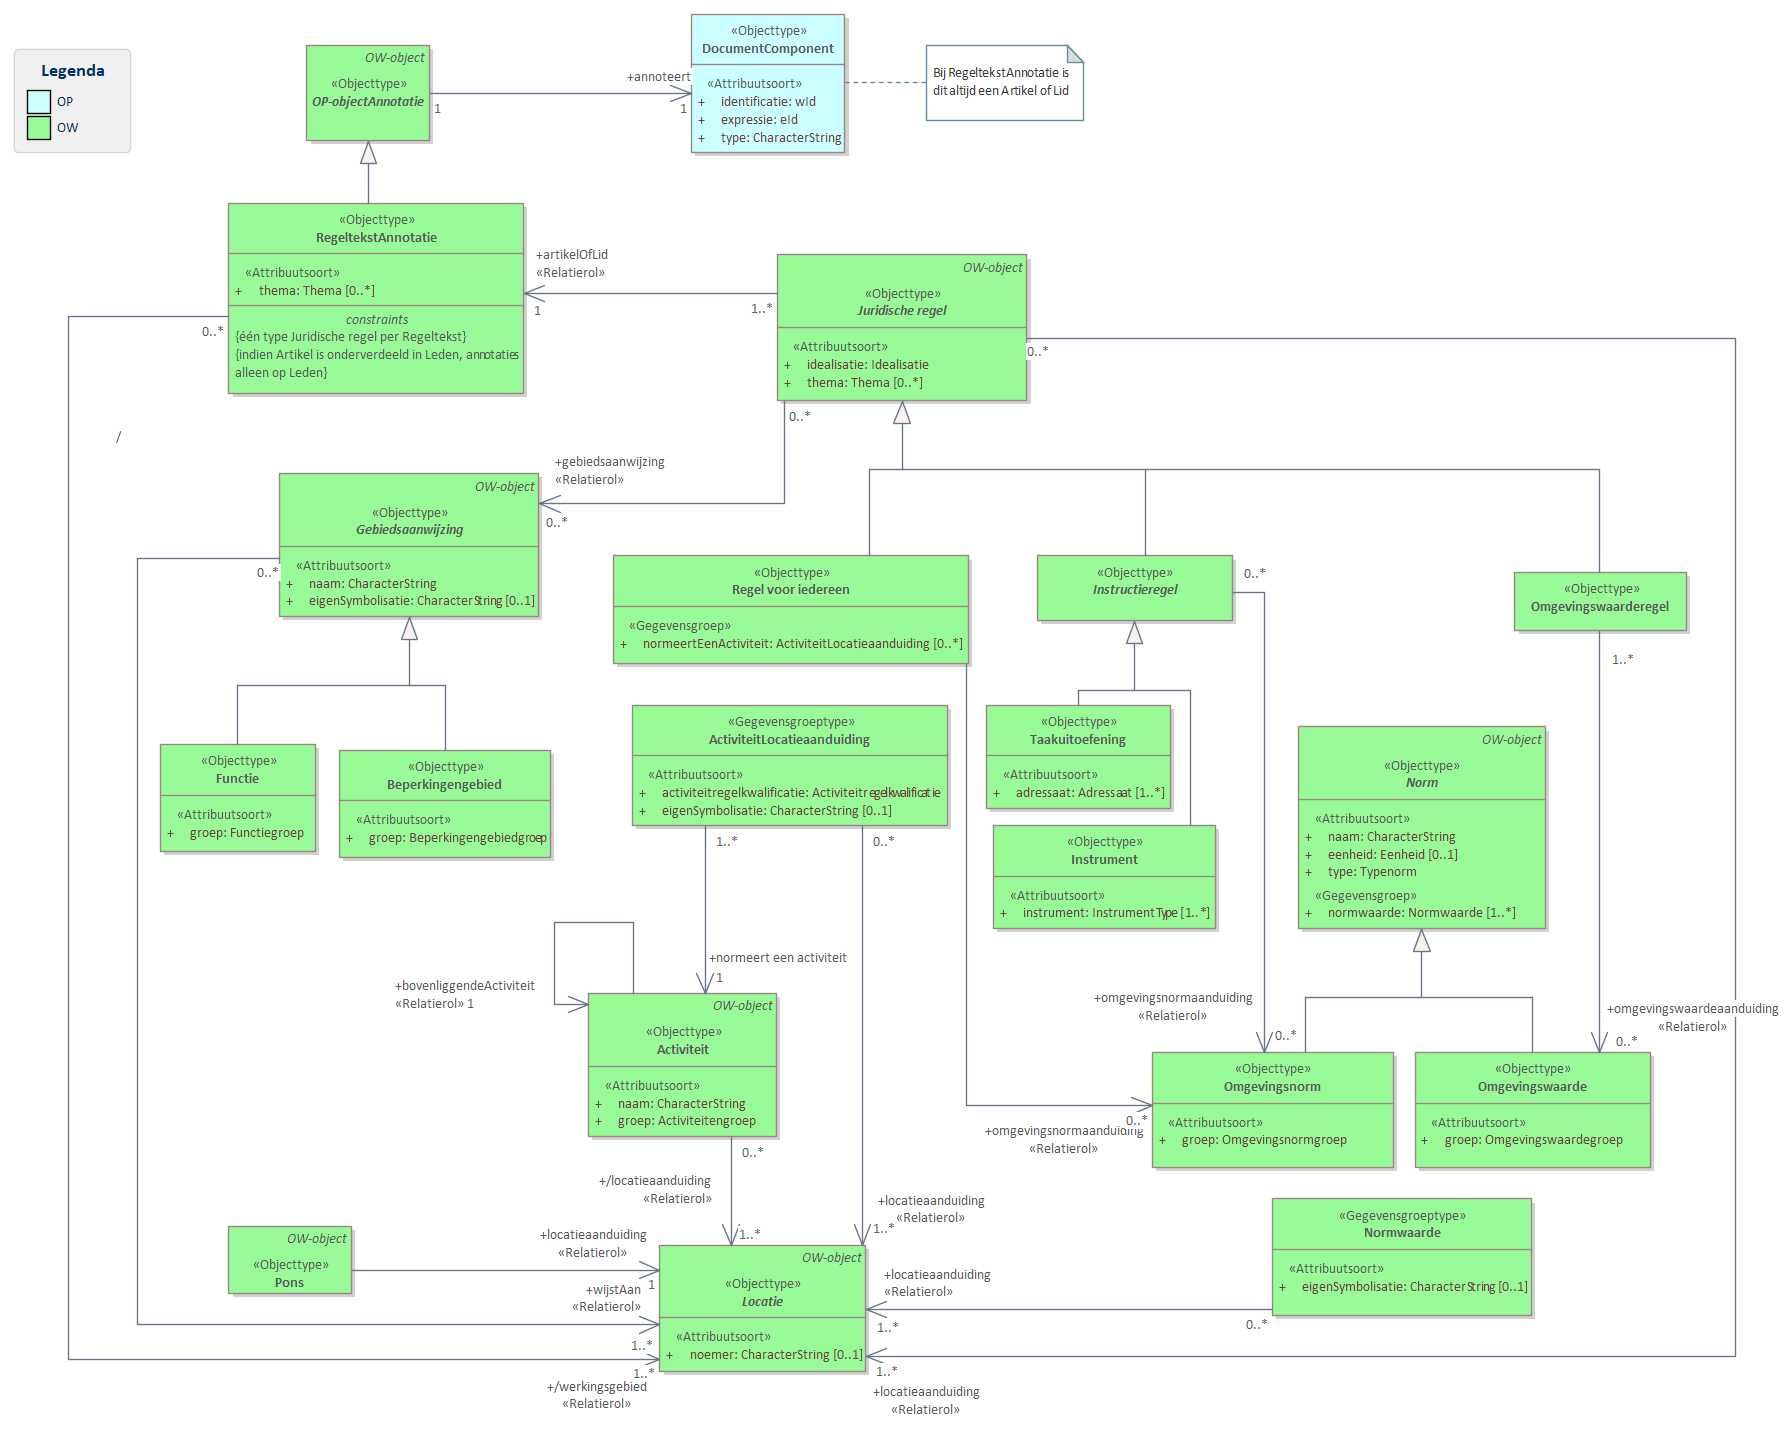
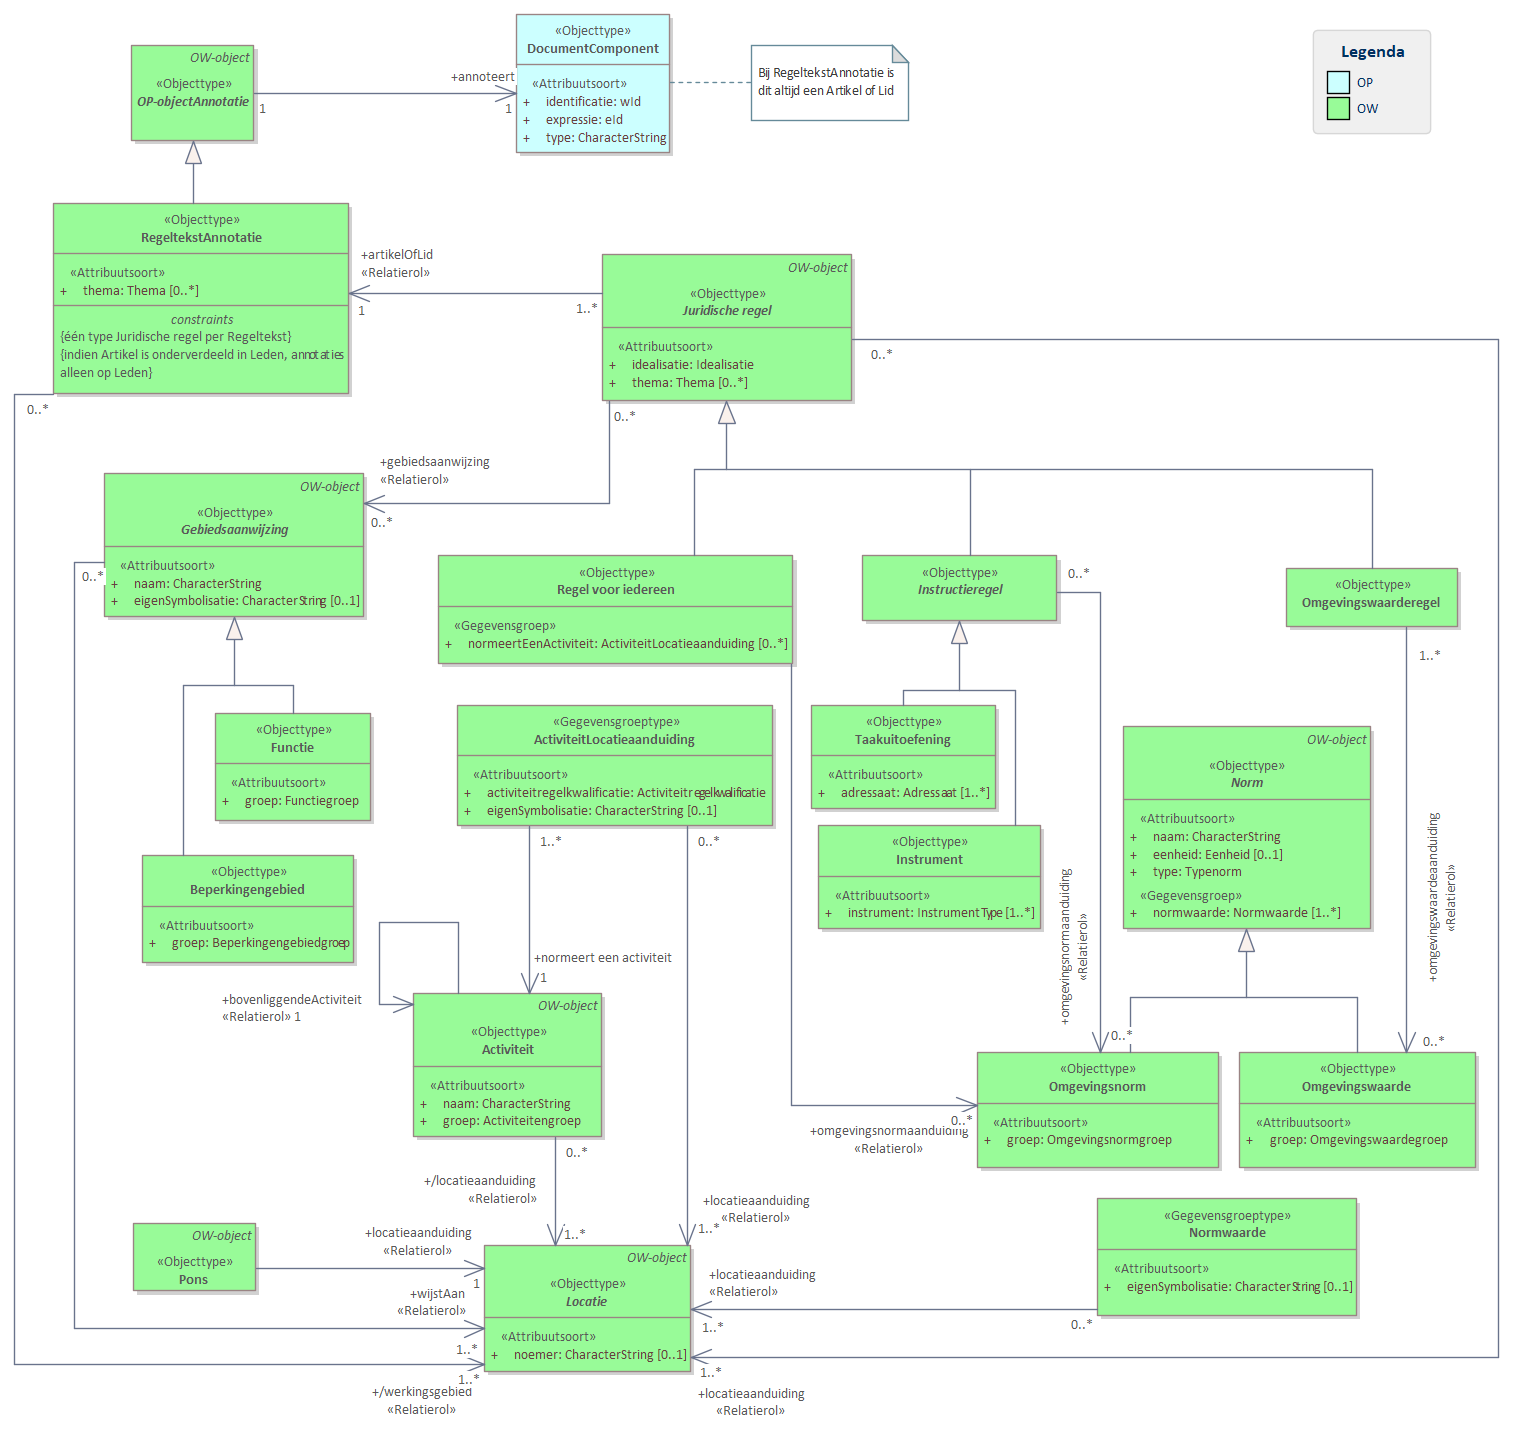
MIMCM-dso-cim-ow-1.0-0-20230213-20250108-154538

diff --git a/data/dso-cim-ow-cat.respec.html b/data/dso-cim-ow-cat.respec.html
@@ -1,10 +1,10 @@
-<!DOCTYPE HTML><section id="cat" class="normative"><h2>Gegevensdefinitie</h2><!--MIMCM-dso-cim-ow-1.0-0-20230213-20250108-153123 imvertor Nightly-build.19--><section id="global_packages"><h3>Model   dso-cim-ow</h3><section id="EAID_E3A46D6F_3ED0_4808_82AD_D7173DDFDAC4"><h4>   OW-OP - overzicht</h4><div class="imageinfo overview"><figure class="uml-diagram"><img id="EAID_E3A46D6F_3ED0_4808_82AD_D7173DDFDAC4" src="data/Images/EAID_E3A46D6F_3ED0_4808_82AD_D7173DDFDAC4.png" usemap="#imagemap-EAID_E3A46D6F_3ED0_4808_82AD_D7173DDFDAC4" alt="Diagram: OW-objecten maken een Regeling machine leesbaar en horen altijd bij precies één Regeling. OP-objectAnnotatie objecten zij OW-objecten die een 1 op 1 koppeling met een wId element in een Regeling hebben. Alle andere OW-objecten die bij de Regeling horen zijn via relaties aan de OP-objectannotatie en dus aan een DocumentComponent gekoppeld. Er zijn twee soorten annotaties: In Regelingen met artikelstructuur worden RegeltekstAnnotaties gebruikt die altijd naar een Artikel of Lid en verwijzen. In regelingen met een vrije-tekststrutuur verwijst een OP-objectannotatie altijd naar een Divisie of Divisietekst"><figcaption> ‒ Diagram: OW-OP</figcaption></figure><map name="imagemap-EAID_E3A46D6F_3ED0_4808_82AD_D7173DDFDAC4"><area shape="rect" alt="OW-object" coords="193,23,401,145" href="#global_class_OWaanlevering_OWobject"><area shape="rect" alt="VrijetekstAnnotatie" coords="295,365,510,487" href="#global_class_Vrijetekststructuur_VrijetekstAnnotatie"><area shape="rect" alt="RegeltekstAnnotatie" coords="100,365,267,476" href="#global_class_Artikelstructuur_RegeltekstAnnotatie"><area shape="rect" alt="OP-objectAnnotatie" coords="193,209,369,263" href="#global_class_OWaanlevering_OPobjectAnnotatie"></map><p>
+<!DOCTYPE HTML><section id="cat" class="normative"><h2>Gegevensdefinitie</h2><!--MIMCM-dso-cim-ow-1.0-0-20230213-20250108-154538 imvertor Nightly-build.19--><section id="global_packages"><h3>Model   dso-cim-ow</h3><section id="EAID_E3A46D6F_3ED0_4808_82AD_D7173DDFDAC4"><h4>   OW-OP - overzicht</h4><div class="imageinfo overview"><figure class="uml-diagram"><img id="EAID_E3A46D6F_3ED0_4808_82AD_D7173DDFDAC4" src="data/Images/EAID_E3A46D6F_3ED0_4808_82AD_D7173DDFDAC4.png" usemap="#imagemap-EAID_E3A46D6F_3ED0_4808_82AD_D7173DDFDAC4" alt="Diagram: OW-objecten maken een Regeling machine leesbaar en horen altijd bij precies één Regeling. OP-objectAnnotatie objecten zij OW-objecten die een 1 op 1 koppeling met een wId element in een Regeling hebben. Alle andere OW-objecten die bij de Regeling horen zijn via relaties aan de OP-objectannotatie en dus aan een DocumentComponent gekoppeld. Er zijn twee soorten annotaties: In Regelingen met artikelstructuur worden RegeltekstAnnotaties gebruikt die altijd naar een Artikel of Lid en verwijzen. In regelingen met een vrije-tekststrutuur verwijst een OP-objectannotatie altijd naar een Divisie of Divisietekst"><figcaption> ‒ Diagram: OW-OP</figcaption></figure><map name="imagemap-EAID_E3A46D6F_3ED0_4808_82AD_D7173DDFDAC4"><area shape="rect" alt="OW-object" coords="193,23,401,145" href="#global_class_OWaanlevering_OWobject"><area shape="rect" alt="VrijetekstAnnotatie" coords="295,365,510,487" href="#global_class_Vrijetekststructuur_VrijetekstAnnotatie"><area shape="rect" alt="RegeltekstAnnotatie" coords="100,365,267,476" href="#global_class_Artikelstructuur_RegeltekstAnnotatie"><area shape="rect" alt="OP-objectAnnotatie" coords="193,209,369,263" href="#global_class_OWaanlevering_OPobjectAnnotatie"></map><p>
                         <p>OW-objecten maken een Regeling machine leesbaar en horen altijd bij precies één Regeling.  OP-objectAnnotatie objecten zij OW-objecten die een 1 op 1 koppeling met een wId element in een Regeling hebben. Alle andere OW-objecten die bij de Regeling horen zijn via relaties aan de OP-objectannotatie en dus aan een DocumentComponent gekoppeld.</p>
                         <p>Er zijn twee soorten annotaties: </p>
                         <p>In Regelingen met artikelstructuur worden RegeltekstAnnotaties gebruikt die  altijd naar een Artikel of Lid en verwijzen. In regelingen met een vrije-tekststrutuur verwijst een OP-objectannotatie altijd naar een Divisie of Divisietekst</p>
                      </p></div></section><section id="EAID_199FD13D_8495_487c_8D35_8C11BB634BAE"><h4>   OW-Objecten - overzicht</h4><div class="imageinfo overview"><figure class="uml-diagram"><img id="EAID_199FD13D_8495_487c_8D35_8C11BB634BAE" src="data/Images/EAID_199FD13D_8495_487c_8D35_8C11BB634BAE.png" usemap="#imagemap-EAID_199FD13D_8495_487c_8D35_8C11BB634BAE" alt="Diagram: Een Regeling wordt machine leesbaar gemaakt door daar OW-objecten aan toe te voegen. Dit diagram bevat een overzicht van allen OW-obecten die kunnen worden toegevoegd."><figcaption> ‒ Diagram: OW-Objecten</figcaption></figure><map name="imagemap-EAID_199FD13D_8495_487c_8D35_8C11BB634BAE"><area shape="rect" alt="Taakuitoefening" coords="1249,811,1434,933" href="#global_class_Artikelstructuur_Taakuitoefening"><area shape="rect" alt="Instrument" coords="1006,804,1228,908" href="#global_class_Artikelstructuur_Instrument"><area shape="rect" alt="OW-status" coords="321,103,427,201" href="#detail_class_OWaanlevering_OWstatus"><area shape="rect" alt="OP-objectAnnotatie" coords="1075,259,1219,347" href="#global_class_OWaanlevering_OPobjectAnnotatie"><area shape="rect" alt="Gebiedsaanwijzing" coords="639,261,899,401" href="#global_class_OWaanlevering_Gebiedsaanwijzing"><area shape="rect" alt="VrijetekstAnnotatie" coords="1185,419,1376,558" href="#global_class_Vrijetekststructuur_VrijetekstAnnotatie"><area shape="rect" alt="Hoofdlijn" coords="603,427,772,549" href="#global_class_Vrijetekststructuur_Hoofdlijn"><area shape="rect" alt="Norm" coords="116,451,334,629" href="#global_class_Artikelstructuur_Norm"><area shape="rect" alt="Pons" coords="932,261,1041,317" href="#global_class_Artikelstructuur_Pons"><area shape="rect" alt="Gebiedengroep" coords="722,954,845,1018" href="#global_class_Locatie_Gebiedengroep"><area shape="rect" alt="Gebied" coords="698,1036,899,1138" href="#global_class_Locatie_Gebied"><area shape="rect" alt="Puntengroep" coords="334,954,457,1011" href="#global_class_Locatie_Puntengroep"><area shape="rect" alt="Punt" coords="250,1029,446,1131" href="#global_class_Locatie_Punt"><area shape="rect" alt="Lijnengroep" coords="529,948,653,1011" href="#global_class_Locatie_Lijnengroep"><area shape="rect" alt="Lijn" coords="475,1029,677,1131" href="#global_class_Locatie_Lijn"><area shape="rect" alt="Juridische regel" coords="792,419,988,558" href="#global_class_Artikelstructuur_Juridischeregel"><area shape="rect" alt="RegeltekstAnnotatie" coords="1006,436,1161,558" href="#global_class_Artikelstructuur_RegeltekstAnnotatie"><area shape="rect" alt="Regel voor iedereen" coords="772,655,1114,755" href="#global_class_Artikelstructuur_Regelvooriedereen"><area shape="rect" alt="Omgevingswaarderegel" coords="614,632,759,688" href="#global_class_Artikelstructuur_Omgevingswaarderegel"><area shape="rect" alt="Instructieregel" coords="1135,639,1235,710" href="#global_class_Artikelstructuur_Instructieregel"><area shape="rect" alt="Activiteit" coords="14,256,186,382" href="#global_class_Artikelstructuur_Activiteit"><area shape="rect" alt="Omgevingswaarde" coords="222,714,432,836" href="#global_class_Artikelstructuur_Omgevingswaarde"><area shape="rect" alt="Omgevingsnorm" coords="14,714,212,836" href="#global_class_Artikelstructuur_Omgevingsnorm"><area shape="rect" alt="Locatie" coords="483,755,684,859" href="#global_class_Locatie_Locatie"><area shape="rect" alt="Kaartlaag" coords="228,256,549,419" href="#global_class_Kaart_Kaartlaag"><area shape="rect" alt="Kaart" coords="363,460,569,622" href="#global_class_Kaart_Kaart"><area shape="rect" alt="OW-object" coords="475,41,706,163" href="#global_class_OWaanlevering_OWobject"></map><p>
                         <p>Een Regeling wordt machine leesbaar gemaakt door daar OW-objecten aan toe te voegen. Dit diagram bevat een overzicht van allen OW-obecten die kunnen worden toegevoegd.</p>
-                     </p></div></section></section><section id="global_package_Artikelstructuur"><h3>Domein   Artikelstructuur</h3><section id="EAID_39BFBADA_1173_4408_A26C_16716D45ACFC"><h4>   OW - RegeltekstAnnotaties - overzicht</h4><div class="imageinfo overview"><figure class="uml-diagram"><img id="EAID_39BFBADA_1173_4408_A26C_16716D45ACFC" src="data/Images/EAID_39BFBADA_1173_4408_A26C_16716D45ACFC.png" usemap="#imagemap-EAID_39BFBADA_1173_4408_A26C_16716D45ACFC" alt="Diagram: In een Regeling met Artikelstructuur bevat iedere"><figcaption> ‒ Diagram: OW - RegeltekstAnnotaties</figcaption></figure><map name="imagemap-EAID_39BFBADA_1173_4408_A26C_16716D45ACFC"><area shape="rect" alt="Pons" coords="228,1226,352,1294" href="#global_class_Artikelstructuur_Pons"><area shape="rect" alt="Instrument" coords="993,825,1216,929" href="#global_class_Artikelstructuur_Instrument"><area shape="rect" alt="Taakuitoefening" coords="986,705,1171,809" href="#global_class_Artikelstructuur_Taakuitoefening"><area shape="rect" alt="ActiviteitLocatieaanduiding" coords="632,705,948,826" href="#global_class_Artikelstructuur_ActiviteitLocatieaanduiding"><area shape="rect" alt="OP-objectAnnotatie" coords="306,45,430,141" href="#global_class_OWaanlevering_OPobjectAnnotatie"><area shape="rect" alt="Omgevingswaarderegel" coords="1514,572,1687,631" href="#global_class_Artikelstructuur_Omgevingswaarderegel"><area shape="rect" alt="Regel voor iedereen" coords="613,555,969,664" href="#global_class_Artikelstructuur_Regelvooriedereen"><area shape="rect" alt="Instructieregel" coords="1037,555,1233,621" href="#global_class_Artikelstructuur_Instructieregel"><area shape="rect" alt="Functie" coords="160,744,316,852" href="#global_class_GebiedsAanwijzing_Functie"><area shape="rect" alt="Beperkingengebied" coords="339,750,551,858" href="#global_class_GebiedsAanwijzing_Beperkingengebied"><area shape="rect" alt="Gebiedsaanwijzing" coords="279,473,539,617" href="#global_class_OWaanlevering_Gebiedsaanwijzing"><area shape="rect" alt="Normwaarde" coords="1272,1198,1532,1316" href="#global_class_Artikelstructuur_Normwaarde"><area shape="rect" alt="RegeltekstAnnotatie" coords="228,203,524,394" href="#global_class_Artikelstructuur_RegeltekstAnnotatie"><area shape="rect" alt="Norm" coords="1298,726,1546,929" href="#global_class_Artikelstructuur_Norm"><area shape="rect" alt="Locatie" coords="659,1245,866,1372" href="#global_class_Locatie_Locatie"><area shape="rect" alt="Juridische regel" coords="777,254,1027,401" href="#global_class_Artikelstructuur_Juridischeregel"><area shape="rect" alt="Omgevingswaarde" coords="1415,1052,1651,1168" href="#global_class_Artikelstructuur_Omgevingswaarde"><area shape="rect" alt="Omgevingsnorm" coords="1152,1052,1394,1168" href="#global_class_Artikelstructuur_Omgevingsnorm"><area shape="rect" alt="Activiteit" coords="588,993,777,1137" href="#global_class_Artikelstructuur_Activiteit"></map><p>
+                     </p></div></section></section><section id="global_package_Artikelstructuur"><h3>Domein   Artikelstructuur</h3><section id="EAID_39BFBADA_1173_4408_A26C_16716D45ACFC"><h4>   OW - RegeltekstAnnotaties - overzicht</h4><div class="imageinfo overview"><figure class="uml-diagram"><img id="EAID_39BFBADA_1173_4408_A26C_16716D45ACFC" src="data/Images/EAID_39BFBADA_1173_4408_A26C_16716D45ACFC.png" usemap="#imagemap-EAID_39BFBADA_1173_4408_A26C_16716D45ACFC" alt="Diagram: In een Regeling met Artikelstructuur bevat iedere"><figcaption> ‒ Diagram: OW - RegeltekstAnnotaties</figcaption></figure><map name="imagemap-EAID_39BFBADA_1173_4408_A26C_16716D45ACFC"><area shape="rect" alt="Pons" coords="133,1223,256,1291" href="#global_class_Artikelstructuur_Pons"><area shape="rect" alt="Instrument" coords="818,825,1041,929" href="#global_class_Artikelstructuur_Instrument"><area shape="rect" alt="Taakuitoefening" coords="811,705,996,809" href="#global_class_Artikelstructuur_Taakuitoefening"><area shape="rect" alt="ActiviteitLocatieaanduiding" coords="457,705,773,826" href="#global_class_Artikelstructuur_ActiviteitLocatieaanduiding"><area shape="rect" alt="OP-objectAnnotatie" coords="131,45,254,141" href="#global_class_OWaanlevering_OPobjectAnnotatie"><area shape="rect" alt="Omgevingswaarderegel" coords="1286,568,1458,627" href="#global_class_Artikelstructuur_Omgevingswaarderegel"><area shape="rect" alt="Regel voor iedereen" coords="438,555,793,664" href="#global_class_Artikelstructuur_Regelvooriedereen"><area shape="rect" alt="Instructieregel" coords="862,555,1057,621" href="#global_class_Artikelstructuur_Instructieregel"><area shape="rect" alt="Functie" coords="215,713,371,821" href="#global_class_GebiedsAanwijzing_Functie"><area shape="rect" alt="Beperkingengebied" coords="142,855,354,963" href="#global_class_GebiedsAanwijzing_Beperkingengebied"><area shape="rect" alt="Gebiedsaanwijzing" coords="104,473,364,617" href="#global_class_OWaanlevering_Gebiedsaanwijzing"><area shape="rect" alt="Normwaarde" coords="1097,1198,1357,1316" href="#global_class_Artikelstructuur_Normwaarde"><area shape="rect" alt="RegeltekstAnnotatie" coords="53,203,349,394" href="#global_class_Artikelstructuur_RegeltekstAnnotatie"><area shape="rect" alt="Norm" coords="1123,726,1371,929" href="#global_class_Artikelstructuur_Norm"><area shape="rect" alt="Locatie" coords="484,1245,691,1372" href="#global_class_Locatie_Locatie"><area shape="rect" alt="Juridische regel" coords="602,254,852,401" href="#global_class_Artikelstructuur_Juridischeregel"><area shape="rect" alt="Omgevingswaarde" coords="1239,1052,1476,1168" href="#global_class_Artikelstructuur_Omgevingswaarde"><area shape="rect" alt="Omgevingsnorm" coords="977,1052,1219,1168" href="#global_class_Artikelstructuur_Omgevingsnorm"><area shape="rect" alt="Activiteit" coords="413,993,602,1137" href="#global_class_Artikelstructuur_Activiteit"></map><p>
                         <p>In een Regeling met Artikelstructuur bevat iedere</p>
                      </p></div></section><section><h4>Objecttypen   </h4>
             <section id="global_class_Artikelstructuur_Instructieregel"><h5>   Instructieregel</h5>
@@ -238,11 +238,11 @@
                
                <h6>Overzicht constraints  </h6>
                   <table style="width: 100%;"><colgroup style="width: 30%;"></colgroup><colgroup style="width: 70%;"></colgroup><tbody><tr><th>Naam</th><th>Uitleg</th></tr><tr><th>
-                           <a class="link" href="#detail_d52263e2801">
+                           <a class="link" href="#detail_d52232e2801">
                               één type Juridische regel per Regeltekst
                            </a>
                         </th><td></td></tr><tr><th>
-                           <a class="link" href="#detail_d52263e2814">
+                           <a class="link" href="#detail_d52232e2814">
                               indien Artikel is onderverdeeld in Leden, annotaties alleen op Leden
                            </a>
                         </th><td></td></tr></tbody></table>
@@ -934,10 +934,10 @@ de som van de locatie van de juridische regels die verwijzen naar dezelfde regel
                                  
                            </td></tr><tr><th>Mogelijk geen waarde</th><td>Nee</td></tr></tbody></table>
                   </div>
-                  <div class="deepheader" id="detail_d52263e2801"><h7>Constraint details  <a href="#global_class_Artikelstructuur_RegeltekstAnnotatie">RegeltekstAnnotatie</a> één type Juridische regel per Regeltekst</h7>
+                  <div class="deepheader" id="detail_d52232e2801"><h7>Constraint details  <a href="#global_class_Artikelstructuur_RegeltekstAnnotatie">RegeltekstAnnotatie</a> één type Juridische regel per Regeltekst</h7>
                      <table style="width: 100%;"><colgroup style="width: 30%;"></colgroup><colgroup style="width: 70%;"></colgroup><tbody><tr><th>OCL</th><td>Er zijn drie subtypen van Juridische regels onderkend, namelijk: Regel voor iedereen, instructieregel en omgevingswaarderegel. Het is niet toegestaan twee van deze typen Juridische regel te vermengen in hetzelfde Artikel (Regeltekst).</td></tr></tbody></table>
                   </div>
-                  <div class="deepheader" id="detail_d52263e2814"><h7>Constraint details  <a href="#global_class_Artikelstructuur_RegeltekstAnnotatie">RegeltekstAnnotatie</a> indien Artikel is onderverdeeld in Leden, annotaties alleen op Leden</h7>
+                  <div class="deepheader" id="detail_d52232e2814"><h7>Constraint details  <a href="#global_class_Artikelstructuur_RegeltekstAnnotatie">RegeltekstAnnotatie</a> indien Artikel is onderverdeeld in Leden, annotaties alleen op Leden</h7>
                      <table style="width: 100%;"><colgroup style="width: 30%;"></colgroup><colgroup style="width: 70%;"></colgroup><tbody><tr><th>OCL</th><td>Deze constraint houdt in dat als er een Juridische regel is die (via een Regeltekst) verwijst naar een Lid in een Artikel, er geen verwijzingen mogen voorkomen die verwijzen naar het Artikel waarin dat Lid voorkomt. Kortom indien het artikel is onderverdeeld in Leden, dan mag er alleen geannoteerd worden op Leden.</td></tr></tbody></table>
                   </div>
                </section>
@@ -3854,7 +3854,7 @@ Het gaat hierbij niet om de Kaart zoals bedoeld in het objecttype, maar om de ka
             
             
             
-         </section></section></section><section id="lis" class="normative"><h2>Inhoud van waardelijsten</h2><!--MIMCM-dso-cim-ow-1.0-0-20230213-20250108-153123 imvertor Nightly-build.19--><section><h3>Referentielijst inhoud   </h3><section id="detail_class_Artikelstructuur_Activiteitengroep"><h4>Referentielijst  Activiteitengroep</h4>
+         </section></section></section><section id="lis" class="normative"><h2>Inhoud van waardelijsten</h2><!--MIMCM-dso-cim-ow-1.0-0-20230213-20250108-154538 imvertor Nightly-build.19--><section><h3>Referentielijst inhoud   </h3><section id="detail_class_Artikelstructuur_Activiteitengroep"><h4>Referentielijst  Activiteitengroep</h4>
             <table style="width: 100%;" class="list"><colgroup></colgroup><tbody><tr><td>
                      
                      
